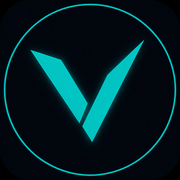
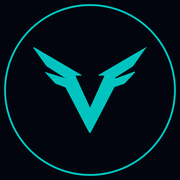
v66: la V de la marca pasa a ser el simbolo alado de la referencia
El usuario paso un diseno de referencia y pidio que la V de la app se viera asi.

Origen del trazado: la marca mide 372x283 dentro de esa imagen (485x321). Se
vectorizo siguiendo ARISTAS entre celda de marca y celda de fondo, orientadas con
la marca a la izquierda, y encadenando los bucles. El primer intento con
seguimiento de vecinos (Moore) se desboco: recorrio 421.105 puntos, o sea MW*MH*4,
que es el limite del bucle, senal de que nunca cerro. El metodo de aristas es
determinista y no puede divagar.
Resultado: 27 vertices, 213 caracteres de path, 1,04% de desviacion respecto al
original (1095 pixeles de 105276).

Por que vectorizar en vez de calcar a ojo: es un logo geometrico de bordes rectos,
y el trazado conserva los vertices reales. Calcar a ojo habria inventado la
geometria.

Color: el turquesa de la referencia es rgb(1,170,182) = #01AAB6, casi identico al
teal de marca que ya usaba la app (#00A6A6). No se cambia ningun color.

La teja no se toca: sigue con su degradado, su radio de 10px y su resplandor. Solo
cambia el glifo de dentro. El SVG va en linea (sin peticion extra) y usa
currentColor, asi que hereda el color:#04231F que ya tenia.

Los iconos de la PWA se regeneran conservando el estilo medido del icono vigente
(fondo #02050E, anillo turquesa de radio 47,65% y trazo 1,04%), sustituyendo solo
la letra V por el simbolo. El ancho del simbolo se igualo al 63% del lado, que es
lo que media la V anterior (121 de 192 px). Copia de los iconos previos en
[…]

diff --git a/index.html b/index.html
@@ -40,7 +40,7 @@
   <!-- Inter autoalojada (SIL OFL 1.1). Se precarga porque el 73% del trafico
        entra desde el anuncio en el movil y el cambio de fuente se notaba. -->
   <link rel="preload" href="assets/fonts/inter-var-latin.woff2" as="font" type="font/woff2" crossorigin>
-  <link rel="stylesheet" href="assets/app.css?v=65">
+  <link rel="stylesheet" href="assets/app.css?v=66">
   <style>
     /* [2026-09-18] La bienvenida se ACORTO. Antes bloqueaba la vista 4,6 s mas 0,6 de
        desvanecido: casi 5,2 s antes de poder ver un producto, y quien llega de un
@@ -121,7 +121,12 @@
         <svg viewBox="0 0 24 24" width="22" height="22" fill="none" stroke="currentColor" stroke-width="2"><path d="M3 6h18M3 12h18M3 18h18"/></svg>
       </button>
       <a class="brand" href="#/inicio">
-        <span class="brand-v">V</span>
+        <span class="brand-v">
+          <!-- Símbolo alado trazado desde la referencia del usuario.
+               SVG en línea para que no haya petición extra: el 73% del
+               tráfico entra por el anuncio en el móvil. -->
+          <svg viewBox="0 0 372 283" xmlns="http://www.w3.org/2000/svg" focusable="false" aria-hidden="true"><path fill="currentColor" fill-rule="evenodd" d="M372 0 L214 92 L214 94 L233 94 L233 96 L186 200 L139 97 L139 94 L158 94 L158 92 L6 3 L2 1 L0 3 L44 64 L106 103 L37 82 L73 121 L106 133 L182 279 L187 283 L266 132 L299 121 L334 83 L332 81 L271 103 L267 102 L327 64Z"/></svg>
+        </span>
         <span class="brand-t"><b>VÓRTEX</b> Gadgets</span>
       </a>
       <button class="iconbtn" id="btnSearch" aria-label="Buscar">

diff --git a/assets/app.css b/assets/app.css
@@ -1013,3 +1013,16 @@ h1,h2,h3,h4{
   .topbar-in .brand-t{font-size:13px}
   .topbar-in .brand-t b{font-size:14px;letter-spacing:.2px}
 }
+
+/* ============================================================================
+   [2026-09-22] La teja de la marca lleva el símbolo alado
+   Antes el glifo era la letra "V" de la fuente (font-size:20px). Ahora es un SVG,
+   así que hay que darle tamaño propio. Se dimensiona por ANCHO, no por alto: el
+   símbolo mide 372x283 (1,31:1, más ancho que alto), así que fijando el ancho a
+   24px queda de 18px de alto y respira dentro de la teja de 34px.
+   fill usa currentColor, así que respeta el color:#04231F que ya tenía la teja.
+   ============================================================================ */
+.brand-v svg{width:24px;height:auto;display:block;overflow:visible}
+@media(max-width:345px){
+  .topbar-in .brand-v svg{width:21px}
+}

diff --git a/sw.js b/sw.js
@@ -1,11 +1,11 @@
 /* Service Worker â€” VÃ“RTEX Gadgets PWA */
-const VERSION = 'vortex-app-v65';
+const VERSION = 'vortex-app-v66';
 const PRECACHE = [
   './',
   'index.html',
   'manifest.json',
-  'assets/app.css?v=65',
-  'assets/app.js?v=65',
+  'assets/app.css?v=66',
+  'assets/app.js?v=66',
   'assets/cod-splash.png',
   'datos-tienda.json',
   'icons/icon-192.png',
